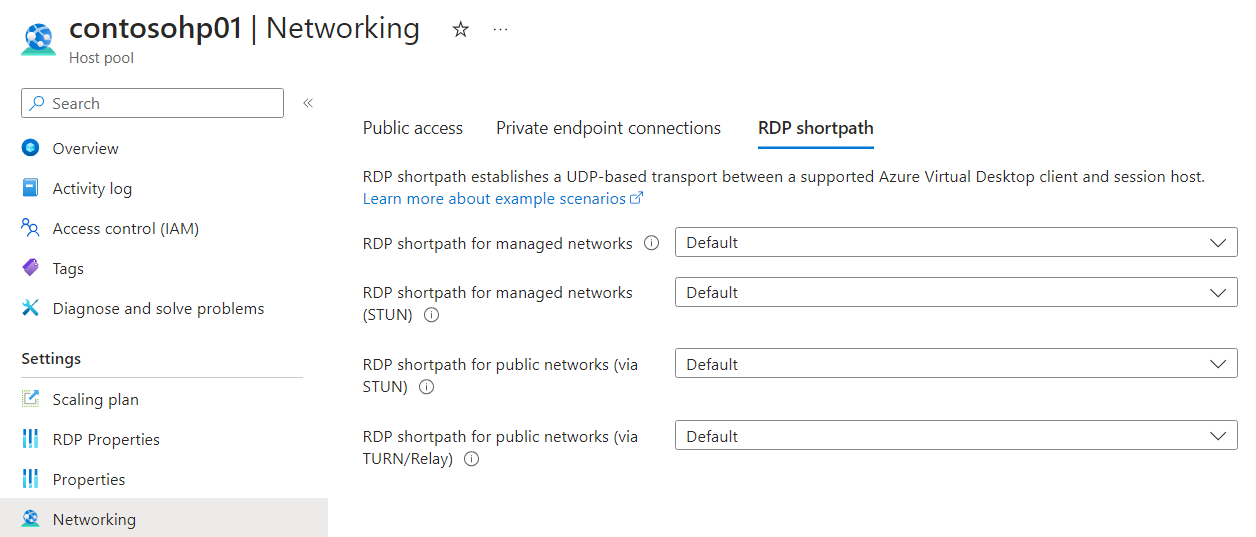
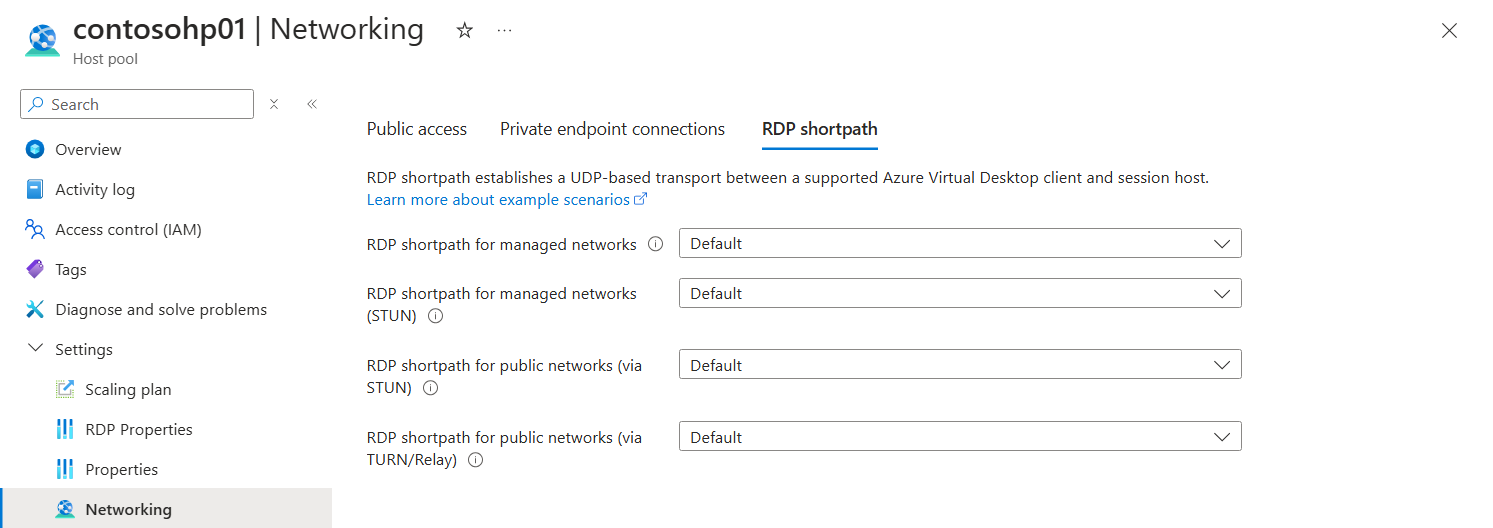
AVD RDP Shortpath updated image

diff --git a/virtual-desktop/configure-rdp-shortpath.md b/virtual-desktop/configure-rdp-shortpath.md
@@ -195,7 +195,7 @@ Here's how to configure RDP Shortpath in the host pool networking settings using
 
 1. Select **Host pools**, then select the host pool you want to configure.
 
-1. Select **Networking**, then select **RDP Shortpath**.
+1. Under **Settings**, select **Networking**, then select **RDP Shortpath**.
 
    :::image type="content" source="media/configure-rdp-shortpath/rdp-shortpath-host-pool-configuration.png" alt-text="A screenshot showing the RDP Shortpath tab of a host pool's networking properties." lightbox="media/configure-rdp-shortpath/rdp-shortpath-host-pool-configuration.png":::
 
